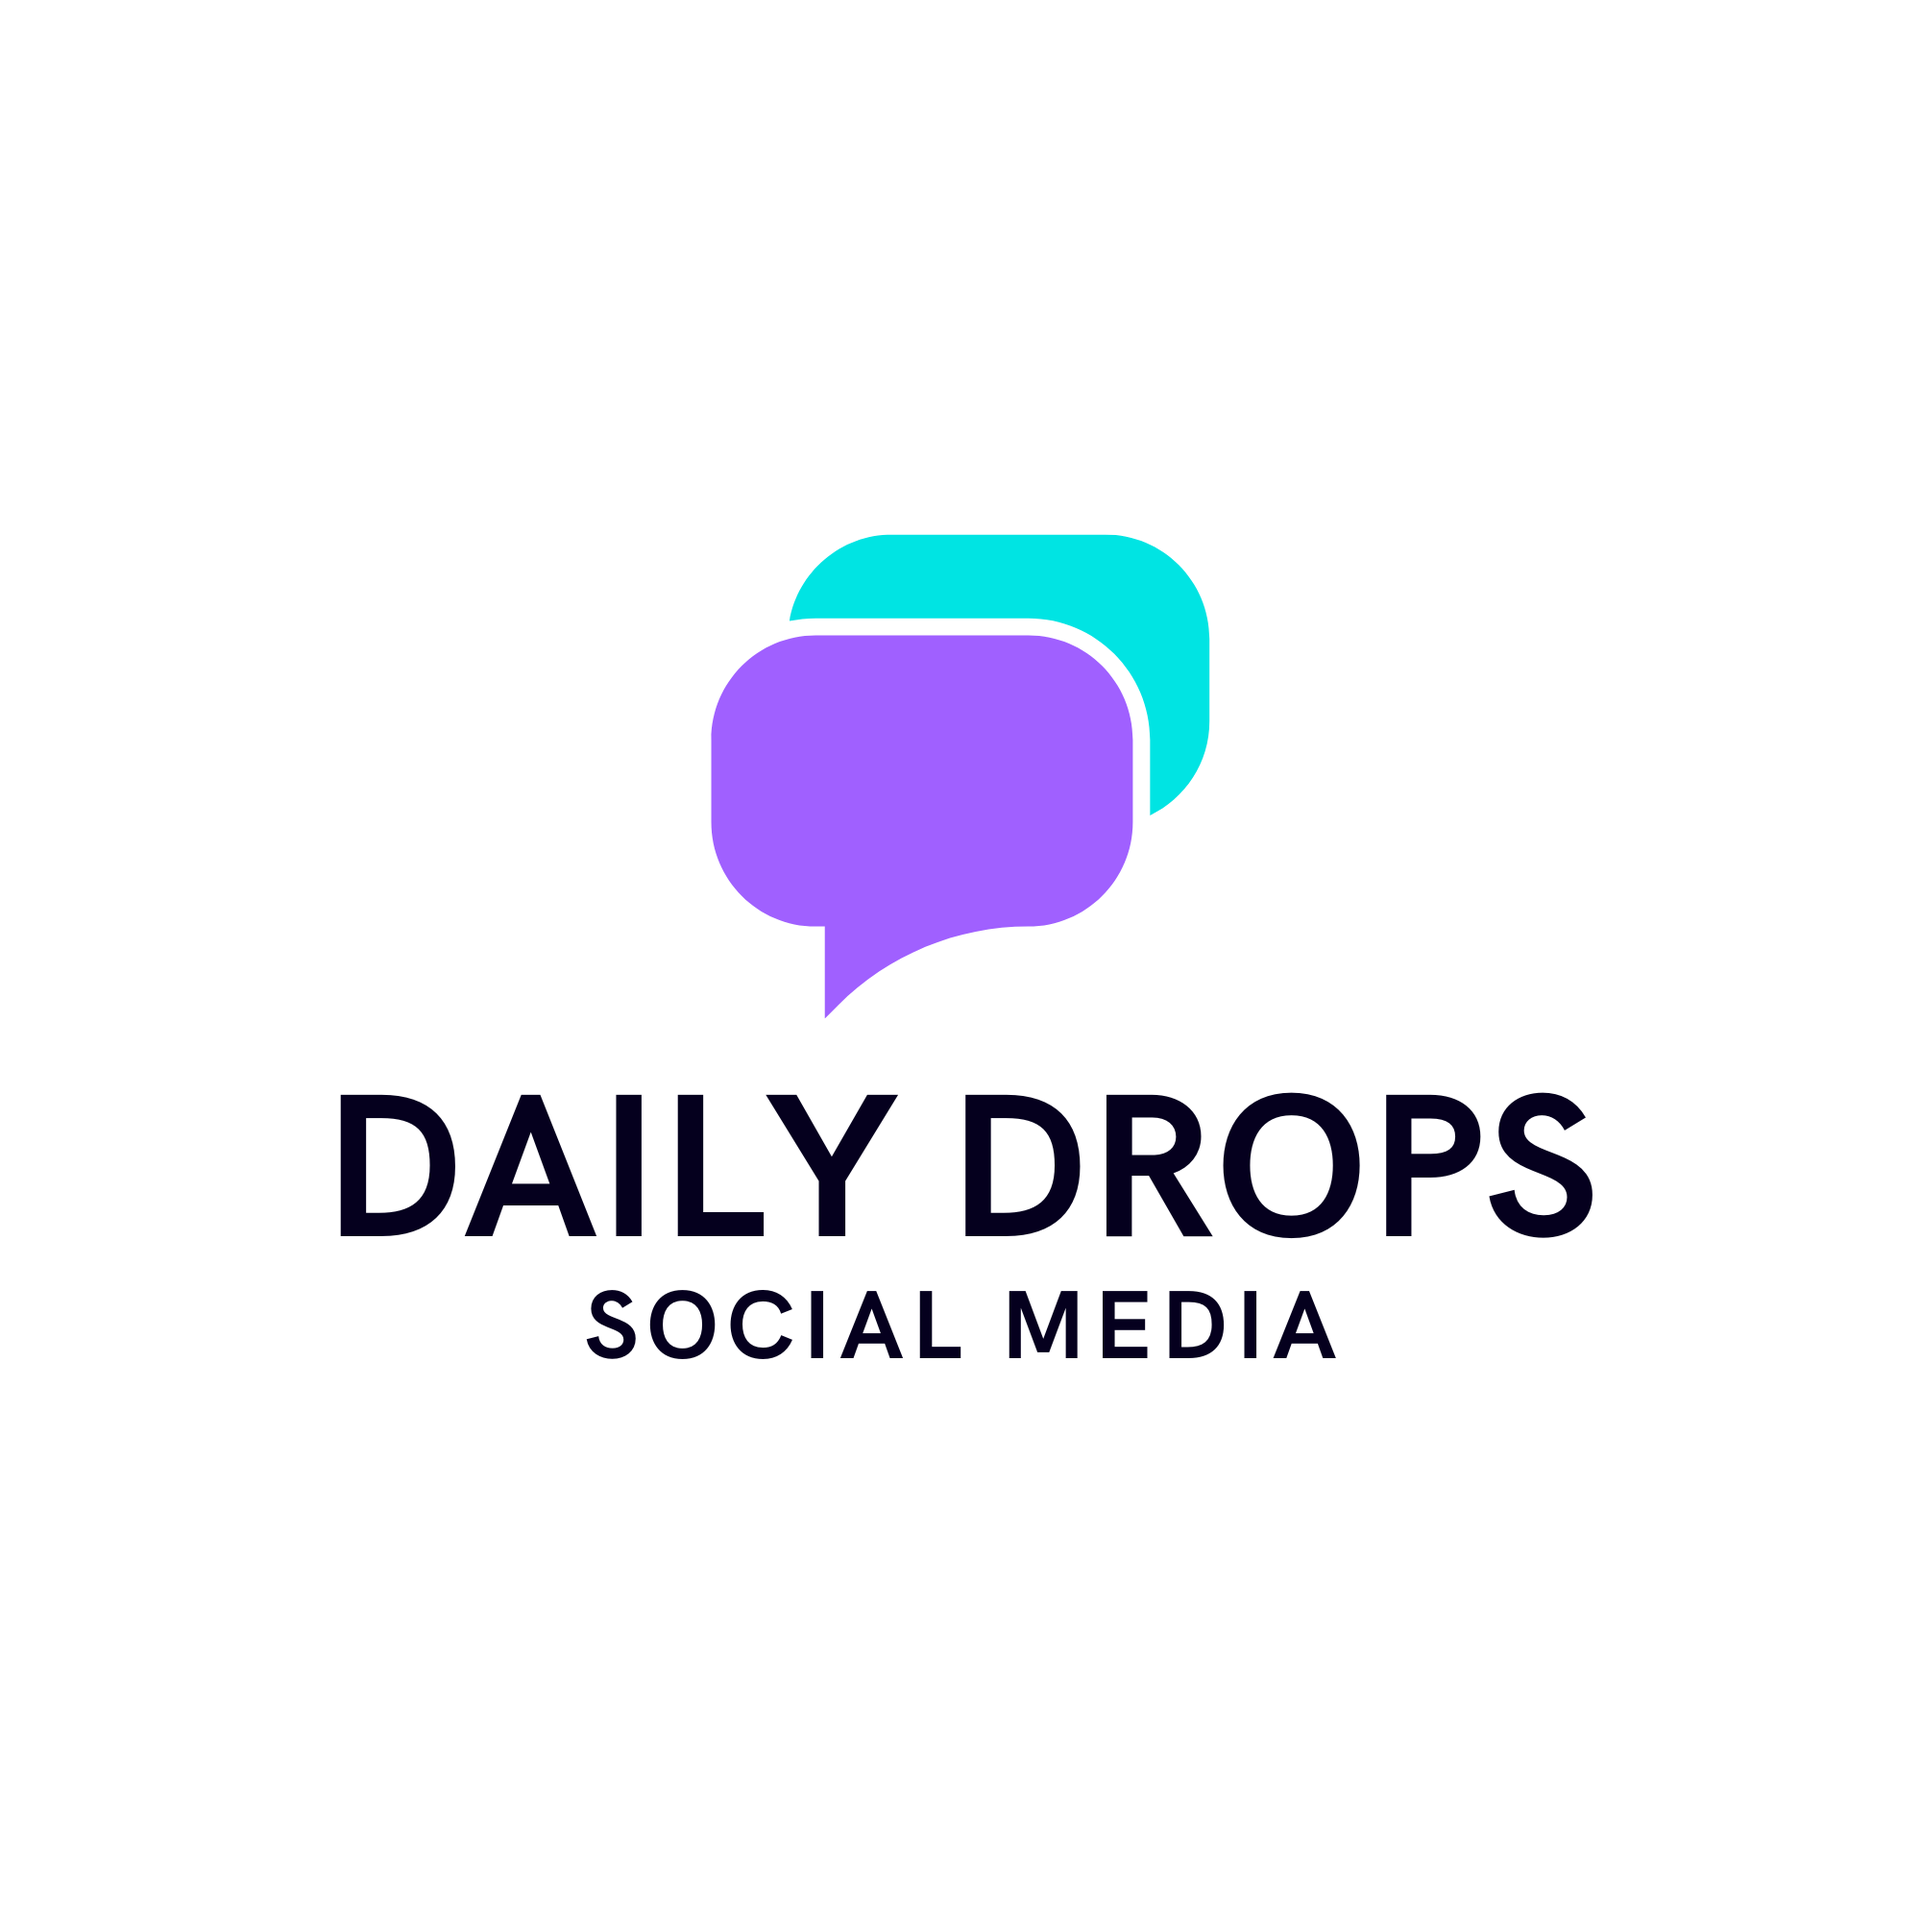
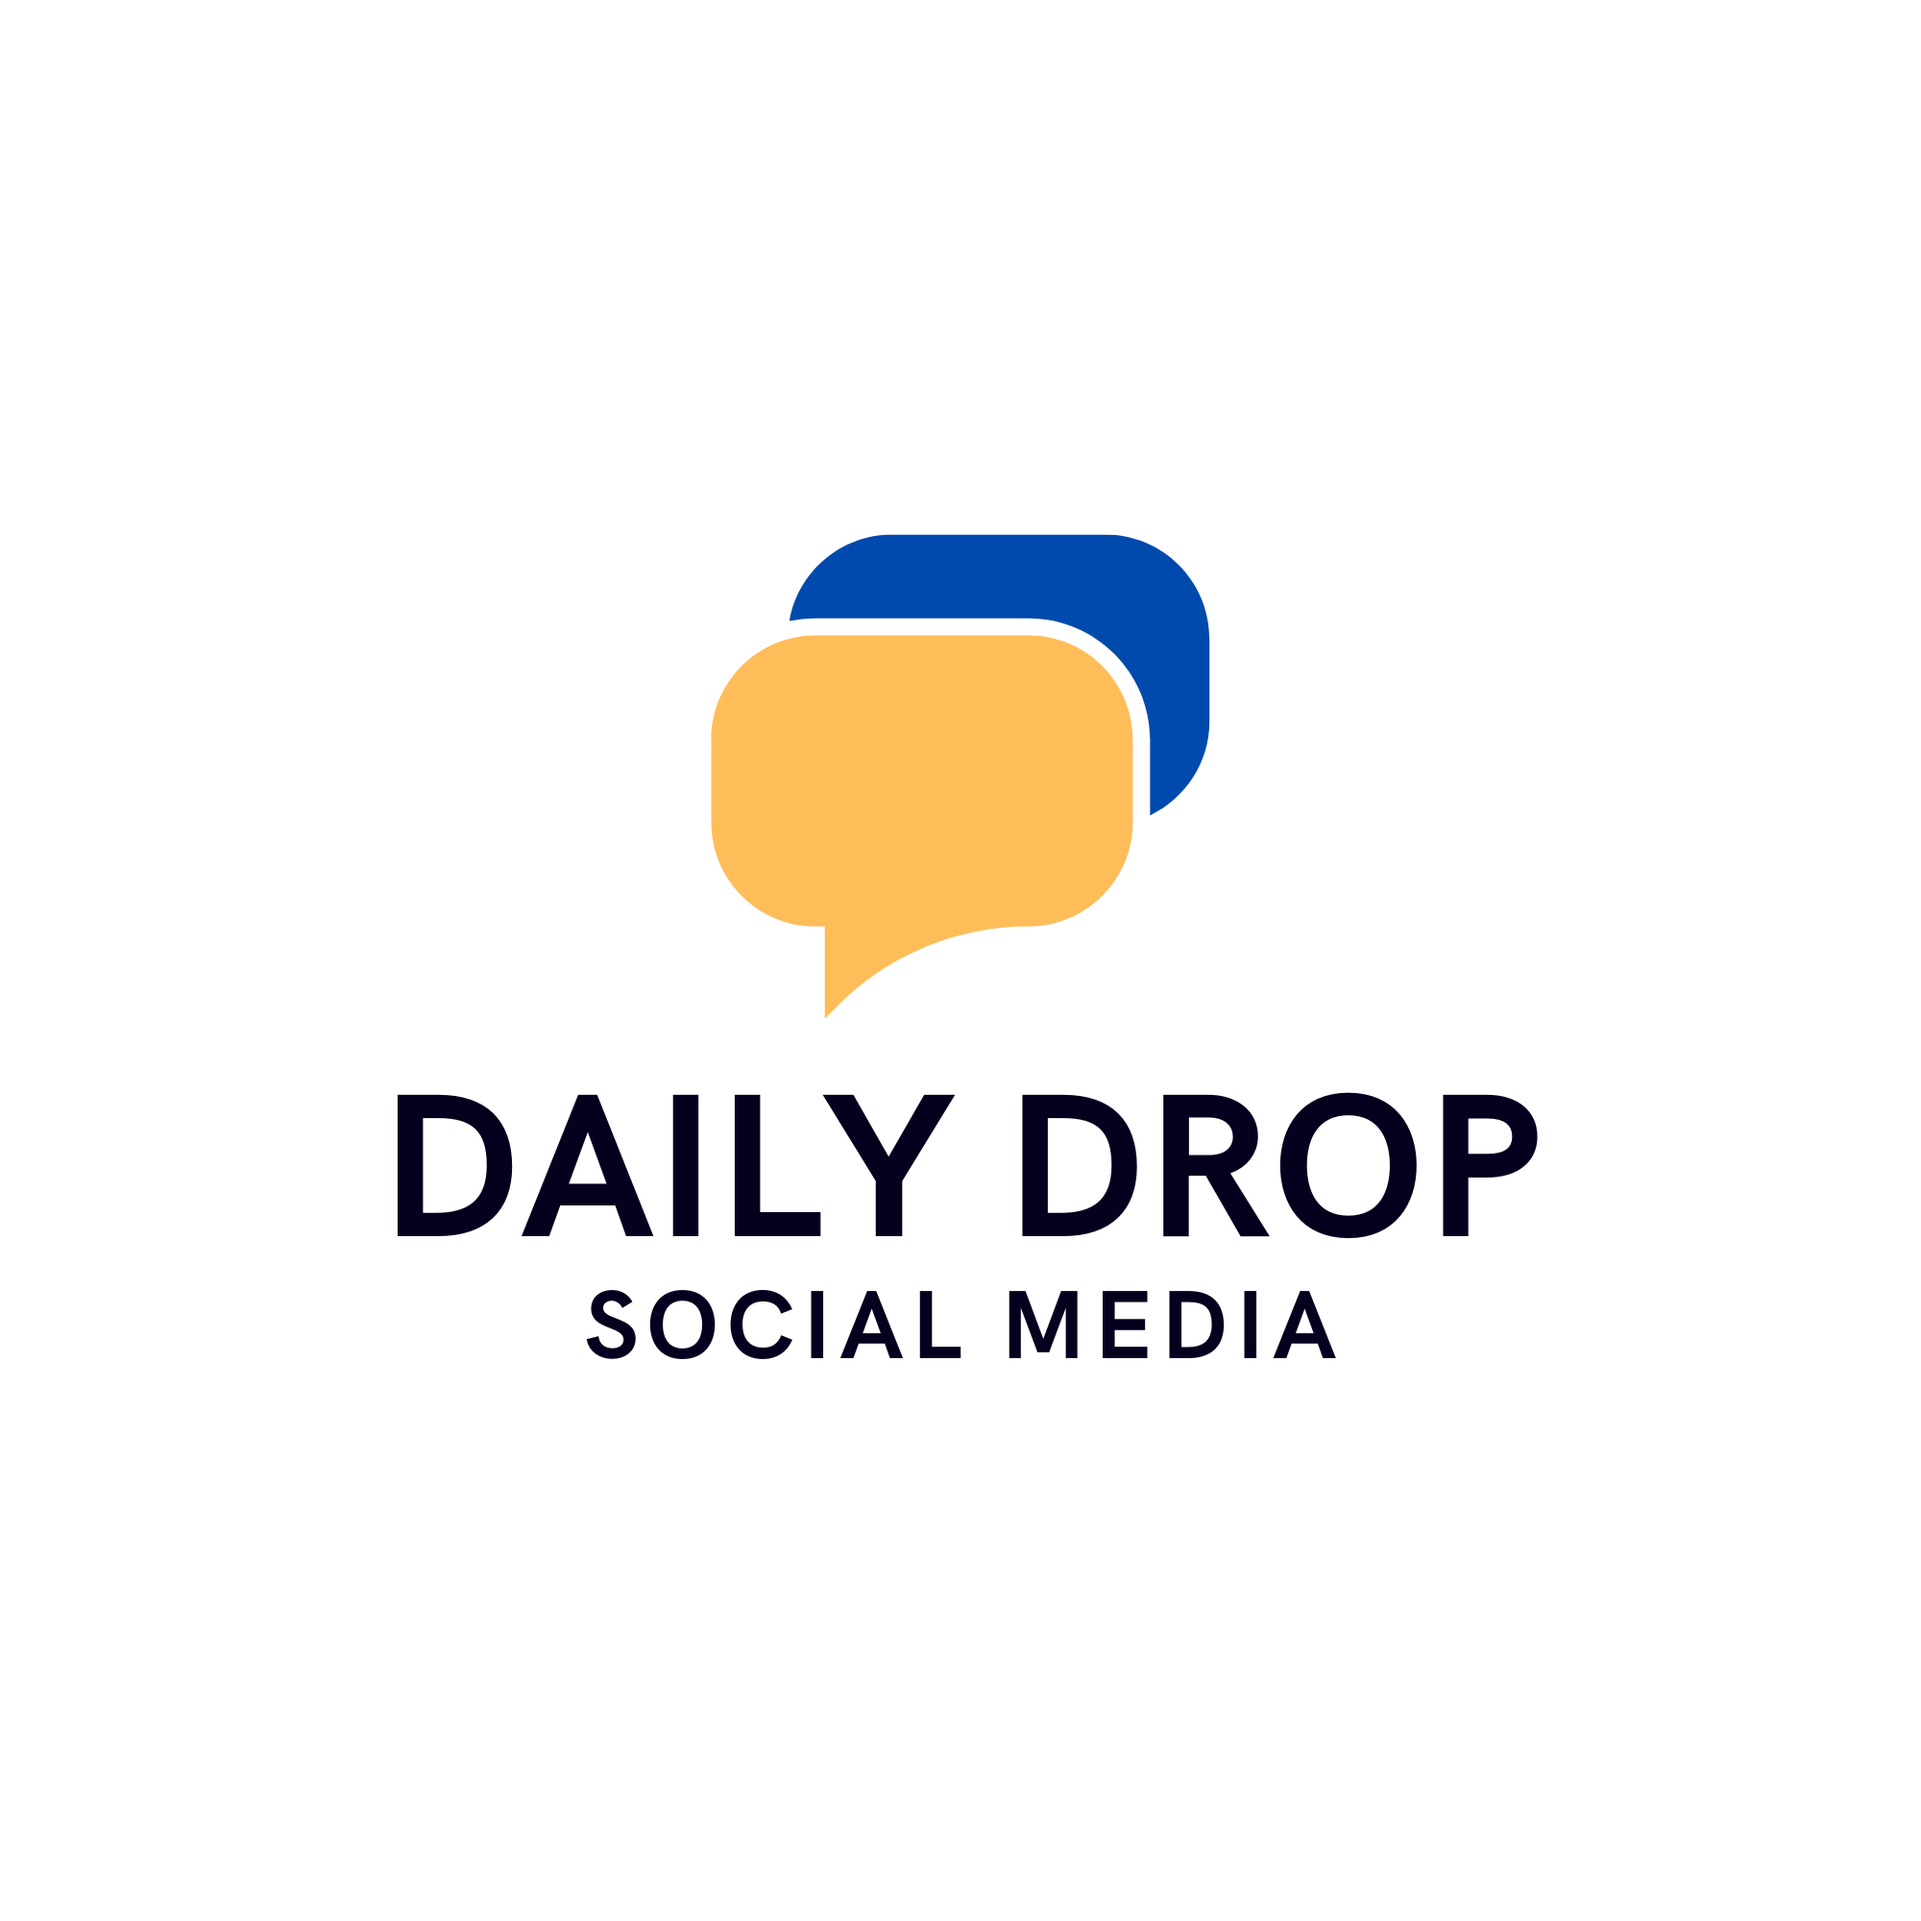
Google sign-in issue fixed

Changed region(s): [[0.155, 0.558, 0.837, 0.651], [0.372, 0.279, 0.651, 0.527]]

diff --git a/lib/pages/Login_Page.dart b/lib/pages/Login_Page.dart
@@ -36,7 +36,7 @@ class _LoginPageState extends State<LoginPage> {
                 mainAxisAlignment: MainAxisAlignment.center,
                 children: [
                   Text(
-                    'DailyDrop',
+                    'Daily Drop',
                     style: TextStyle(fontSize: 40, fontWeight: FontWeight.bold),
                   ),
                   const SizedBox(height: 10),
@@ -53,16 +53,20 @@ class _LoginPageState extends State<LoginPage> {
                   const SizedBox(height: 24),
                   ElevatedButton(
                     onPressed: () async {
-                      final String result = await authService.value.signInWithGoogle();
+                      final String result = await authService.value
+                          .signInWithGoogle();
                       if (result == 'success') {
                         Navigator.pushReplacement(
                           context,
-                          MaterialPageRoute(builder: (context) => const HomePage()),
+                          MaterialPageRoute(
+                            builder: (context) => const HomePage(),
+                          ),
                         );
                       } else {
                         String userFriendlyMessage = result;
                         if (result == 'Google Sign-In aborted by user.') {
-                          userFriendlyMessage = 'Google Sign-In cancelled. Please try again.';
+                          userFriendlyMessage =
+                              'Google Sign-In cancelled. Please try again.';
                         }
                         ScaffoldMessenger.of(context).showSnackBar(
                           SnackBar(content: Text(userFriendlyMessage)),
@@ -87,7 +91,9 @@ class _LoginPageState extends State<LoginPage> {
                     onPressed: () {
                       Navigator.push(
                         context,
-                        MaterialPageRoute(builder: (context) => const EmailLoginPage()),
+                        MaterialPageRoute(
+                          builder: (context) => const EmailLoginPage(),
+                        ),
                       );
                     },
                     style: CommonStyles.primaryButtonStyle,
@@ -110,6 +116,6 @@ class _LoginPageState extends State<LoginPage> {
           ),
         ],
       ),
-      );
+    );
   }
 }

diff --git a/lib/pages/email_login.dart b/lib/pages/email_login.dart
@@ -18,7 +18,8 @@ class EmailLoginPage extends StatefulWidget {
   State<EmailLoginPage> createState() => _EmailLoginPageState();
 }
 
-class _EmailLoginPageState extends State<EmailLoginPage> {
+class _EmailLoginPageState extends State<EmailLoginPage>
+    with WidgetsBindingObserver {
   final TextEditingController _emailController = TextEditingController();
   final TextEditingController _passwordController = TextEditingController();
 
@@ -26,10 +27,12 @@ class _EmailLoginPageState extends State<EmailLoginPage> {
   bool _isLoading = false;
   bool _obscurePassword = true;
   bool _showResendVerification = false;
+  bool _isKeyboardVisible = false;
 
   @override
   void initState() {
     super.initState();
+    WidgetsBinding.instance.addObserver(this);
     // Show verification message if coming from registration
     if (widget.verificationEmail != null) {
       WidgetsBinding.instance.addPostFrameCallback((_) {
@@ -46,7 +49,16 @@ class _EmailLoginPageState extends State<EmailLoginPage> {
   }
 
   @override
+  void didChangeMetrics() {
+    final keyboardHeight = View.of(context).viewInsets.bottom;
+    setState(() {
+      _isKeyboardVisible = keyboardHeight > 0;
+    });
+  }
+
+  @override
   void dispose() {
+    WidgetsBinding.instance.removeObserver(this);
     _emailController.dispose();
     _passwordController.dispose();
     super.dispose();
@@ -191,7 +203,9 @@ class _EmailLoginPageState extends State<EmailLoginPage> {
           'Login with Email',
           style: TextStyle(color: Colors.white),
         ),
-        backgroundColor: Colors.transparent,
+        backgroundColor: _isKeyboardVisible
+            ? Colors.deepPurple
+            : Colors.transparent,
         elevation: 0,
         foregroundColor: Colors.white,
       ),

diff --git a/lib/auth/auth_service.dart b/lib/auth/auth_service.dart
@@ -84,28 +84,31 @@ class AuthService {
 
   Future<String> signInWithGoogle() async {
     try {
-      final GoogleSignInAccount? googleUser = await _googleSignIn
-          .authenticate();
+      // Trigger the authentication flow
+      final GoogleSignInAccount googleUser = await _googleSignIn.authenticate();
 
-      if (googleUser == null) {
-        return 'Google Sign-In aborted by user.';
+      // Get the auth tokens
+      final GoogleSignInAuthentication googleAuth = googleUser.authentication;
+
+      final String? idToken = googleAuth.idToken;
+
+      if (idToken == null) {
+        return 'Failed to obtain ID token.';
       }
 
-      final GoogleSignInClientAuthorization? auth = await googleUser
-          .authorizationClient
-          ?.authorizeScopes(['email', 'profile']);
+      // Get access token from authorization client
+      String? accessToken;
+      final authClient = googleUser.authorizationClient;
+      final authorization = await authClient.authorizeScopes(['email', 'profile']);
+      accessToken = authorization.accessToken;
 
-      if (auth == null ||
-          auth.accessToken == null ||
-          googleUser.authentication.idToken == null) {
-        return 'Failed to obtain access token or ID token.';
-      }
-
+      // Create a credential for Firebase
       final AuthCredential credential = GoogleAuthProvider.credential(
-        accessToken: auth.accessToken,
-        idToken: googleUser.authentication.idToken,
+        accessToken: accessToken,
+        idToken: idToken,
       );
 
+      // Sign in to Firebase with the Google credentials
       await firebaseAuth.signInWithCredential(credential);
       return 'success';
     } on GoogleSignInException catch (e) {

diff --git a/lib/pages/email_register.dart b/lib/pages/email_register.dart
@@ -13,7 +13,7 @@ class EmailRegisterPage extends StatefulWidget {
   State<EmailRegisterPage> createState() => _EmailRegisterPageState();
 }
 
-class _EmailRegisterPageState extends State<EmailRegisterPage> {
+class _EmailRegisterPageState extends State<EmailRegisterPage> with WidgetsBindingObserver {
   final TextEditingController _nameController = TextEditingController();
   final TextEditingController _emailController = TextEditingController();
   final TextEditingController _passwordController = TextEditingController();
@@ -24,9 +24,25 @@ class _EmailRegisterPageState extends State<EmailRegisterPage> {
   bool _isLoading = false;
   bool _obscurePassword = true;
   bool _obscureConfirmPassword = true;
+  bool _isKeyboardVisible = false;
+
+  @override
+  void initState() {
+    super.initState();
+    WidgetsBinding.instance.addObserver(this);
+  }
+
+  @override
+  void didChangeMetrics() {
+    final keyboardHeight = View.of(context).viewInsets.bottom;
+    setState(() {
+      _isKeyboardVisible = keyboardHeight > 0;
+    });
+  }
 
   @override
   void dispose() {
+    WidgetsBinding.instance.removeObserver(this);
     _nameController.dispose();
     _emailController.dispose();
     _passwordController.dispose();
@@ -132,7 +148,7 @@ class _EmailRegisterPageState extends State<EmailRegisterPage> {
           'Register with Email',
           style: TextStyle(color: Colors.white),
         ),
-        backgroundColor: Colors.transparent,
+        backgroundColor: _isKeyboardVisible ? Colors.deepPurple : Colors.transparent,
         elevation: 0,
         foregroundColor: Colors.white,
       ),

diff --git a/lib/main.dart b/lib/main.dart
@@ -24,14 +24,14 @@ Future<void> _firebaseMessagingBackgroundHandler(RemoteMessage message) async {
 void main() async {
   WidgetsFlutterBinding.ensureInitialized();
   await Firebase.initializeApp(options: DefaultFirebaseOptions.currentPlatform);
-  
+
   // Initialize Firebase Messaging
   FirebaseMessaging.onBackgroundMessage(_firebaseMessagingBackgroundHandler);
-  
+
   // Initialize streak notifications
   final streakNotificationService = StreakNotificationService();
   await streakNotificationService.initializeNotifications();
-  
+
   runApp(const MyApp());
 }
 

diff --git a/lib/auth/auth_wrapper.dart b/lib/auth/auth_wrapper.dart
@@ -18,10 +18,7 @@ class AuthWrapper extends StatelessWidget {
 
         final User? user = snapshot.data;
 
-        // Check if user is verified
-        final bool isVerified = user?.emailVerified ?? false;
-
-        if (user != null && isVerified) {
+        if (user != null) {
           return const WidgetTree();
         }
 

diff --git a/README.md b/README.md
@@ -1,16 +1,33 @@
-# daily_drop
+# Daily Drop
+A social media app for trendy young people.
 
-A new Flutter project.
+## Screenshots
+<p align="center">
+  <img src="https://github.com/user-attachments/assets/1a5cf1b4-d75f-48d0-8d76-da78dcaeaa54" height="300" alt="Login with Email">
+  <img src="https://github.com/user-attachments/assets/7cb89e97-1e57-48c0-82b3-c0dac5e8c88e" height="300" alt="Landing Page">
+  <img src="https://github.com/user-attachments/assets/5ad392d7-be32-4e37-b4a1-8afc6aba97f3" height="300" alt="Trending Page">
+  <img src="https://github.com/user-attachments/assets/b9544290-80a7-4506-8cde-aaadc6d3ddaf" height="300" alt="Homepage">
+  <img src="https://github.com/user-attachments/assets/5b7f823a-8950-41d1-904f-3fbd2f37a1e1" height="300" alt="App Drawer">
+</p>
 
-## Getting Started
+<p align="center">
+  <img src="https://github.com/user-attachments/assets/cf74a3bb-add2-4b84-ba7d-ee7f9ea50330" height="300" alt="User Profile Page">
+  <img src="https://github.com/user-attachments/assets/5f36e98c-8e84-42e7-9dd1-088b2a1e8130" height="300" alt="Register with Email">
+  <img src="https://github.com/user-attachments/assets/0074e83e-0749-47bf-89ce-69946d1ffe2c" height="300" alt="Push Notification">
+  <img src="https://github.com/user-attachments/assets/6a1fe9cb-c612-4fb1-bd1b-8d336cae1a3a" height="300" alt="Register with Email State">
+</p>
 
-This project is a starting point for a Flutter application.
+## Features
+* Dynamic content feed with trending posts  
+* User profile creation and customization  
+* Like, dislike, and interactive engagement tools  
+* Email authentication (Register & Login)  
+* Real-time data sync with Cloud Firestore  
+* Secure push notifications  
+* Smooth and responsive UI experience  
 
-A few resources to get you started if this is your first Flutter project:
-
-- [Lab: Write your first Flutter app](https://docs.flutter.dev/get-started/codelab)
-- [Cookbook: Useful Flutter samples](https://docs.flutter.dev/cookbook)
-
-For help getting started with Flutter development, view the
-[online documentation](https://docs.flutter.dev/), which offers tutorials,
-samples, guidance on mobile development, and a full API reference.
+## Tech Stack
+*   **Frontend:** Flutter
+*   **Backend:** Firebase
+    *   Firebase Authentication
+    *   Cloud Firestore
